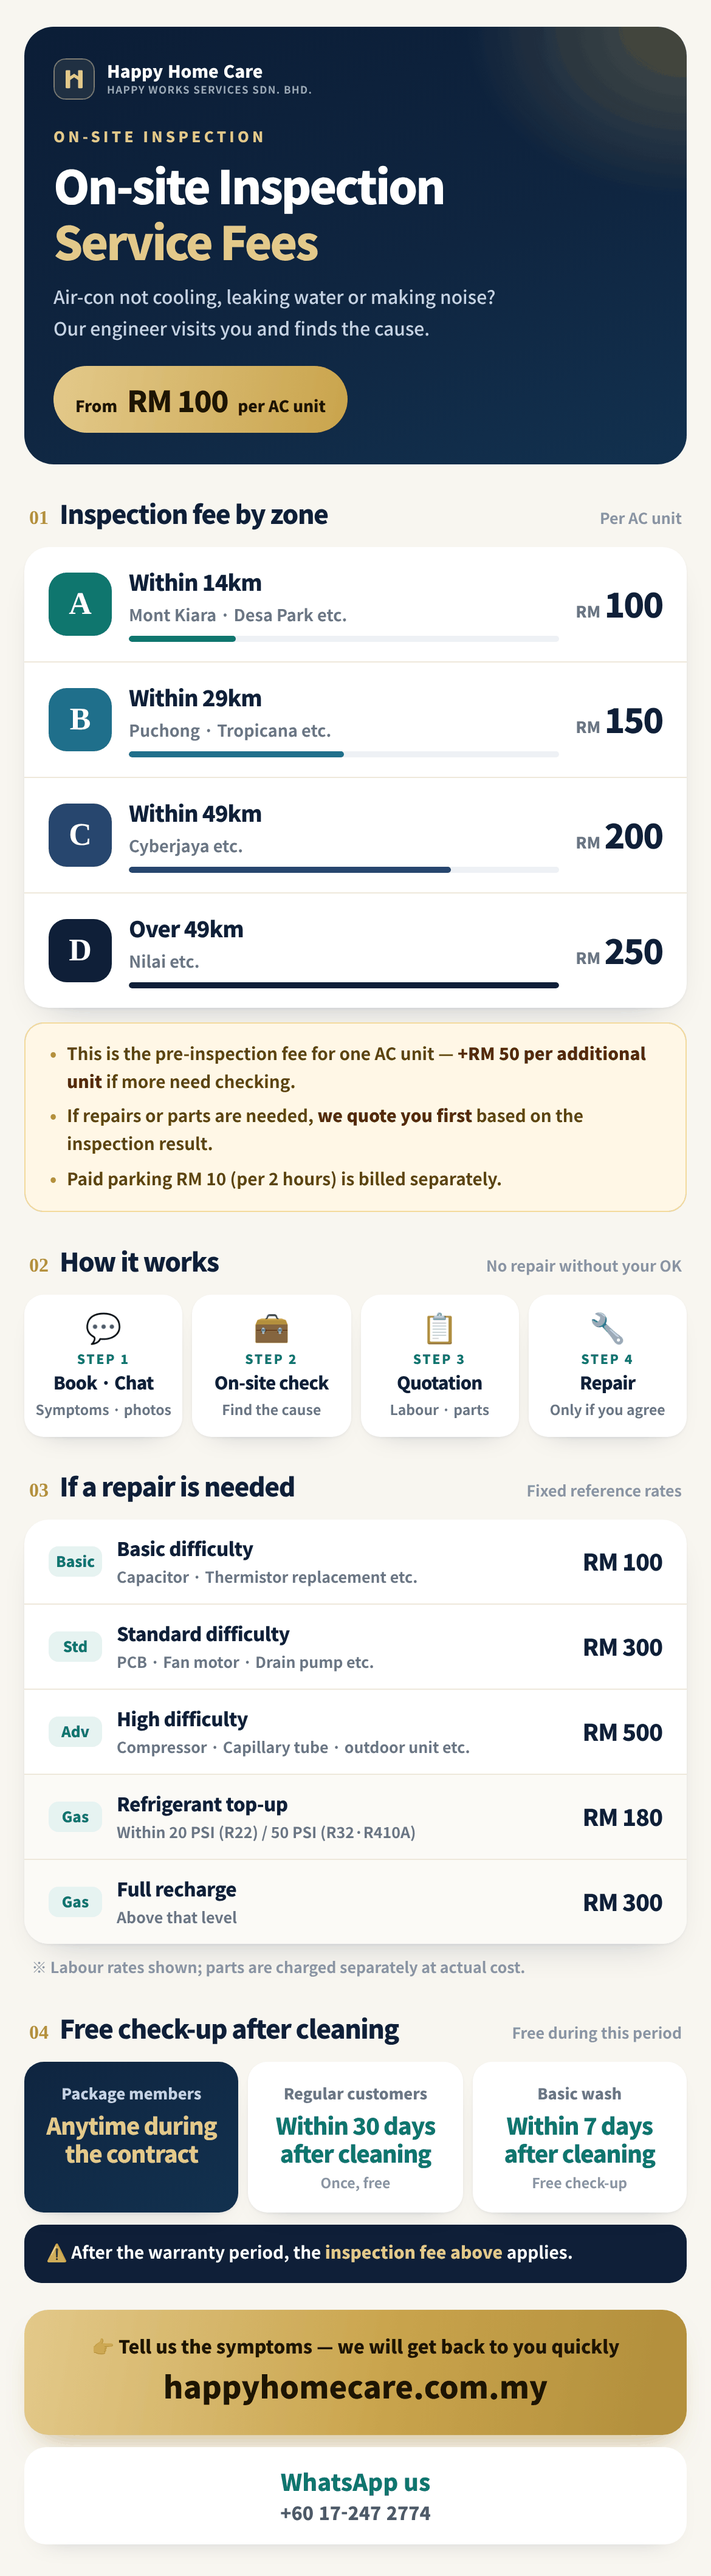
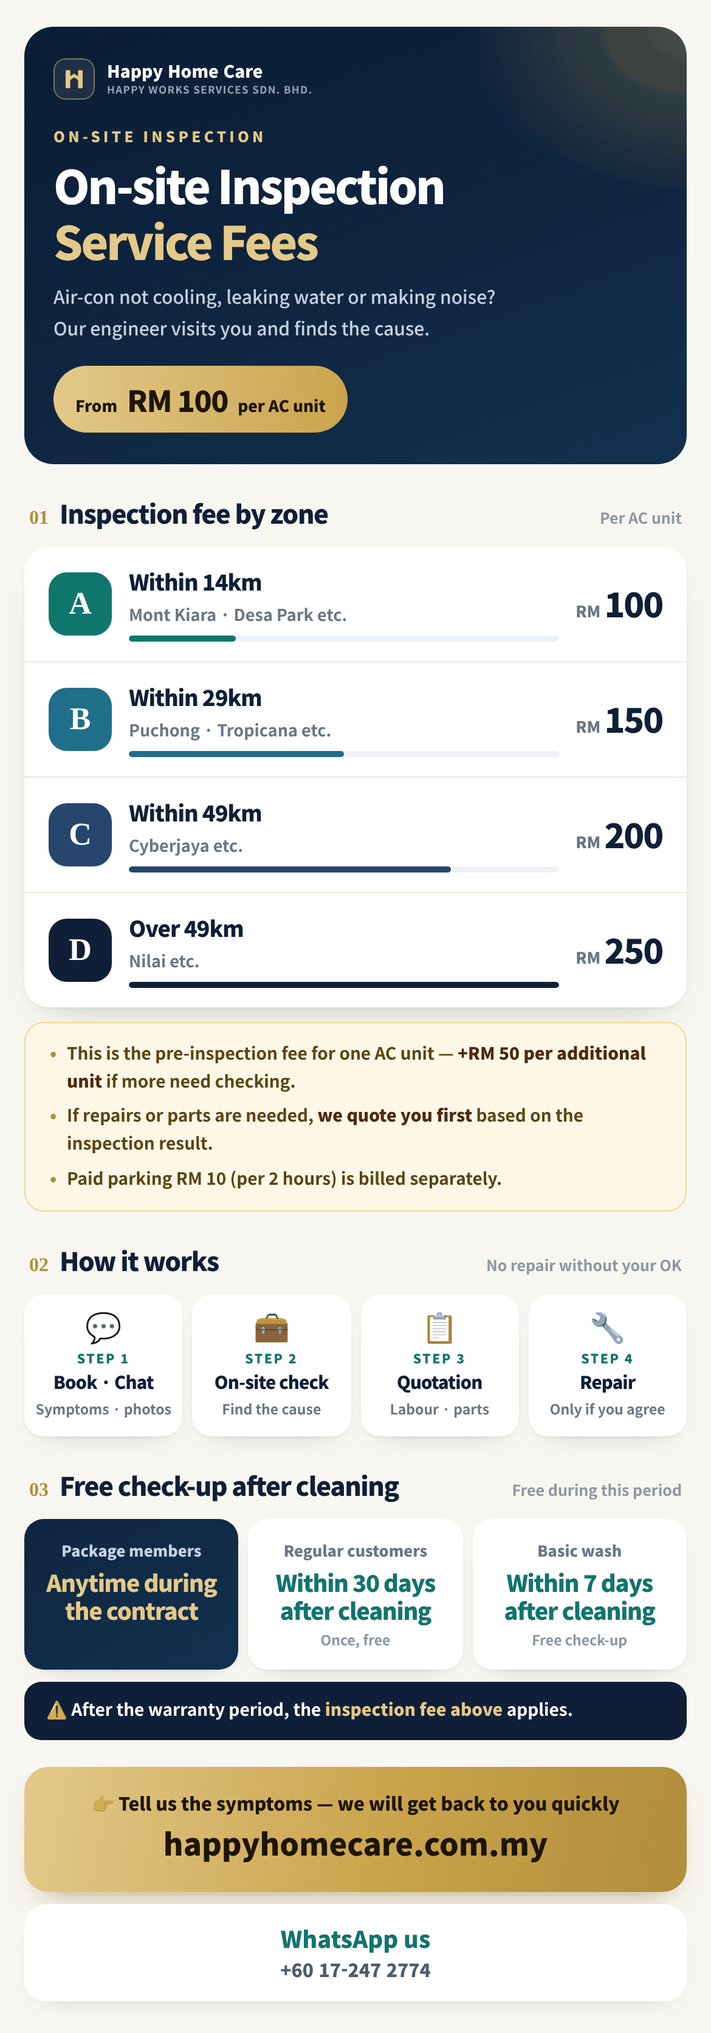
Add files via upload

diff --git a/namecard.html b/namecard.html
@@ -1458,7 +1458,7 @@ document.getElementById('btnCopy').addEventListener('click', copyLink);
    ·화면 언어(한국어/EN)를 그대로 물려줍니다 */
 /* 서비스별 안내 — 한국어는 안내장 그림(guide-*.png), 영문은 그림이 있으면 그림, 없으면 홈페이지 해당 부분
    ·그림을 바꾸려면 같은 이름으로 덮어쓰면 됩니다 (가로 1170px) */
-var GUIDE_VER = '20261101';   /* 안내 그림을 바꿔 올렸는데 예전 그림(또는 빈 화면)이 보이면 이 숫자만 바꾸면 됩니다 */
+var GUIDE_VER = '20261102';   /* 안내 그림을 바꿔 올렸는데 예전 그림(또는 빈 화면)이 보이면 이 숫자만 바꾸면 됩니다 */
 var GUIDES = [
   { k:'care',    img:'guide-care.png', imgEn:'guide-care-en.png', th:'guide-care-thumb.jpg', wide:true },
   { k:'acBasic', img:'guide-ac-basic.png',     th:'ac-s-wash.jpg',          enHash:'#acx', tab:'basic' },

diff --git a/customer-admin.html b/customer-admin.html
@@ -1629,7 +1629,7 @@ const CARE_IMG={
 };
 // ═══ 📘 에어컨 안내장 (홈페이지 · 전자명함과 같은 그림) ═══
 //  · 그림을 바꿔 올렸는데 예전 그림이 나가면 GD_VER 숫자만 바꾸면 됩니다
-const GD_VER='20261101';
+const GD_VER='20261102';
 const GDS={
   // 📚 전체 — 그림 없이 문구 + 링크를 보내고, 고객이 링크를 열어 보고 싶은 안내장을 고릅니다 (home.html ?g=all)
   gd_all:    {g:'all',    img:'',                 ko:'에어컨 궁금증 안내장', en:'Air-con guides', all:true},

diff --git a/home.html b/home.html
@@ -2288,7 +2288,7 @@ body.gqp-open{overflow:hidden}
 <script>
 (function(){
   /* 안내장 목록 — 그림을 바꾸려면 같은 이름으로 덮어쓰고 VER 숫자를 바꿉니다 */
-  var VER='20261101';
+  var VER='20261102';
   var G=[
     {k:'avoid',  img:'guide-ac-avoid',   th:'gth-avoid.jpg',  wide:1,
       ko:['이런 에어컨 업체는 피하세요','분해 범위 · 장비 · 냉매 충전 체크리스트','꼭 확인'],
